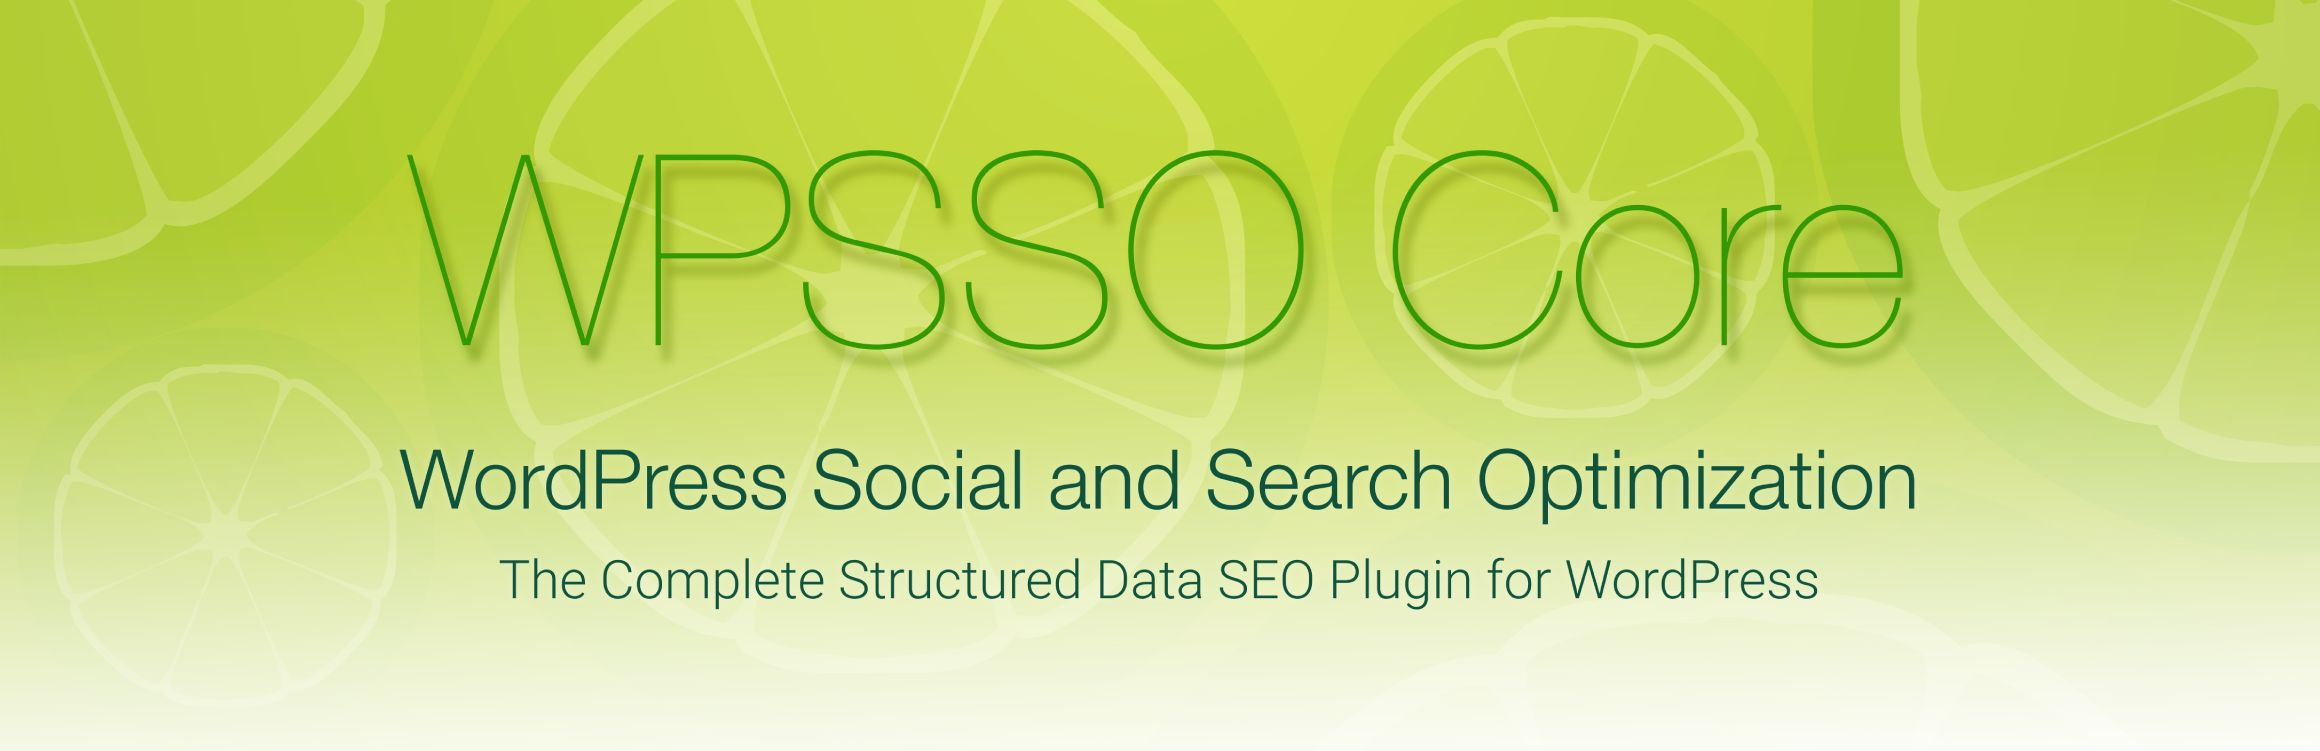
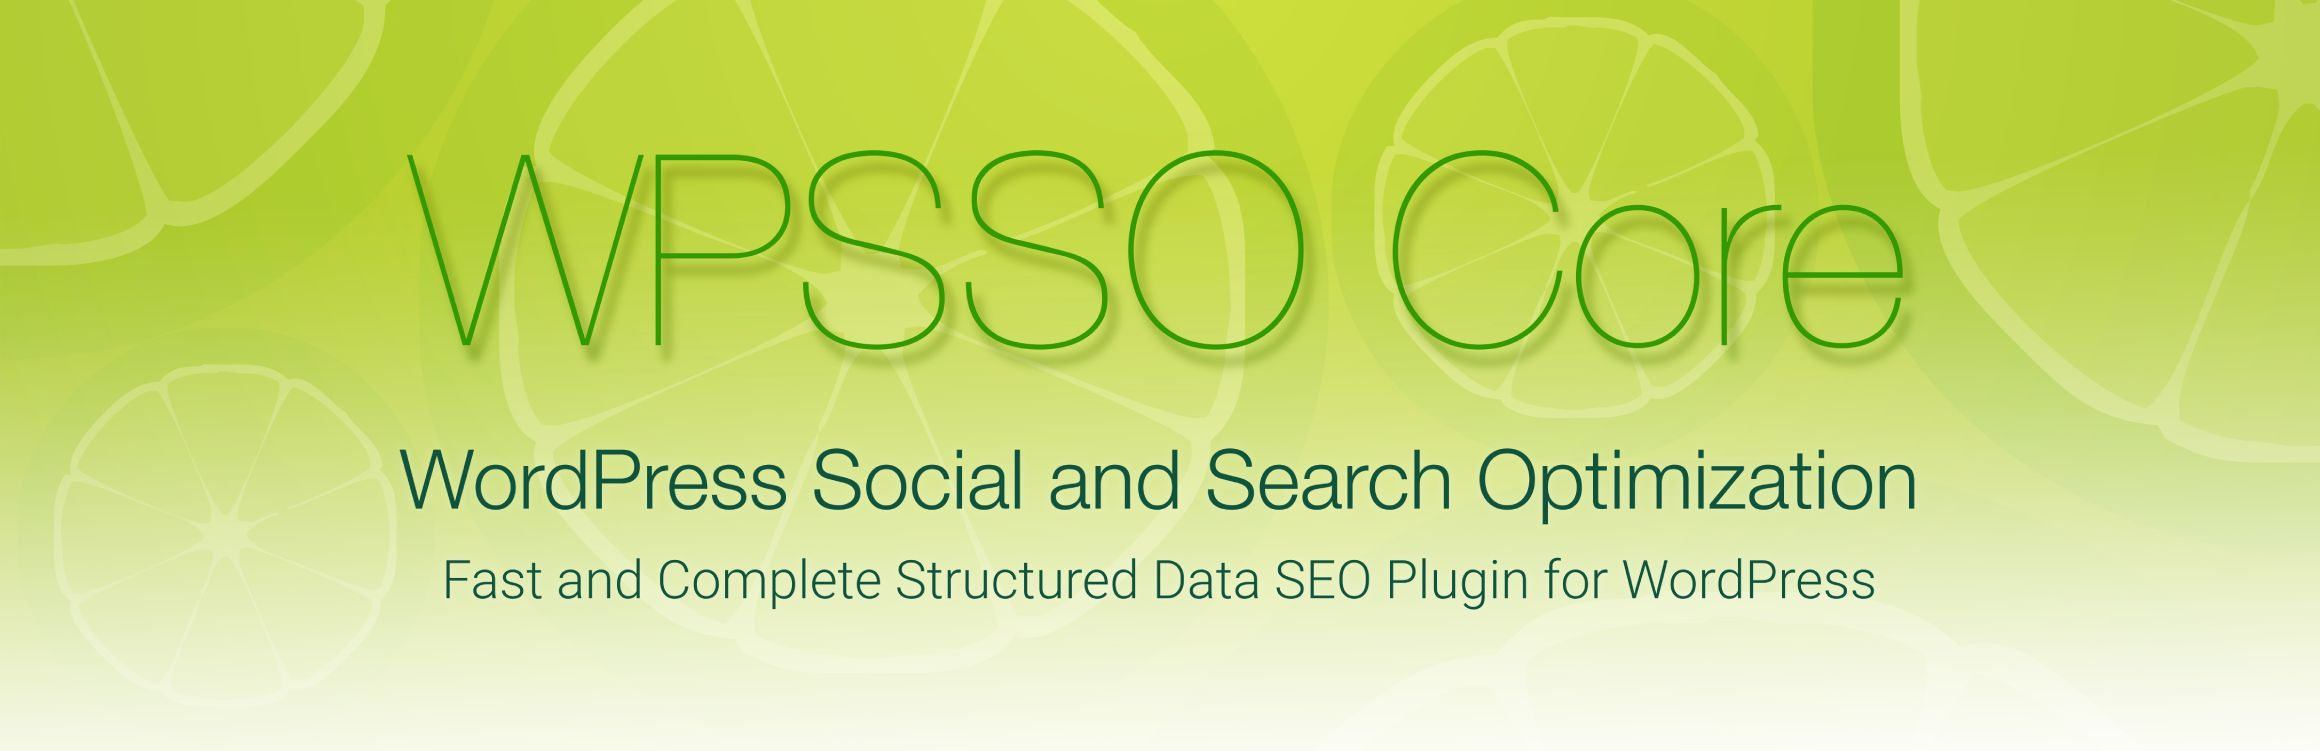
documentation and assets update

Changed region(s): [[0.1862, 0.735, 0.8069, 0.7963]]

diff --git a/index.html b/index.html
@@ -25,7 +25,7 @@
         </ul>
       </header>
       <section>
-<h1>WPSSO Core - The Complete Structured Data SEO Plugin</h1>
+<h1>WPSSO Core - Fast and Complete Structured Data SEO Plugin</h1>
 
 <table>
 <tr><th align="right" valign="top" nowrap>Plugin Name</th><td>WPSSO Core</td></tr>
@@ -42,7 +42,7 @@
 
 <h2>Description</h2>
 
-<h3 class="top">The Complete Structured Data SEO Plugin for WordPress</h3>
+<h3 class="top">Fast and Complete Structured Data SEO Plugin for WordPress</h3>
 
 <p><strong>Creates extensive and complete structured data to present your content at its best for social sites and search results, no matter how URLs are shared, reshared, messaged, posted, embedded, or crawled.</strong></p>
 

diff --git a/README.md b/README.md
@@ -1,4 +1,4 @@
-<h1>WPSSO Core - The Complete Structured Data SEO Plugin</h1>
+<h1>WPSSO Core - Fast and Complete Structured Data SEO Plugin</h1>
 
 <table>
 <tr><th align="right" valign="top" nowrap>Plugin Name</th><td>WPSSO Core</td></tr>
@@ -15,7 +15,7 @@
 
 <h2>Description</h2>
 
-<h3 class="top">The Complete Structured Data SEO Plugin for WordPress</h3>
+<h3 class="top">Fast and Complete Structured Data SEO Plugin for WordPress</h3>
 
 <p><strong>Creates extensive and complete structured data to present your content at its best for social sites and search results, no matter how URLs are shared, reshared, messaged, posted, embedded, or crawled.</strong></p>
 
